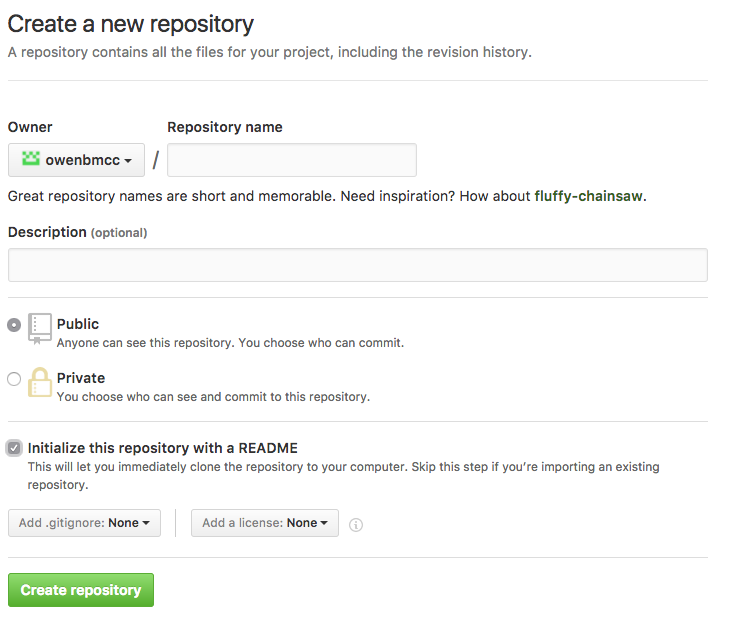
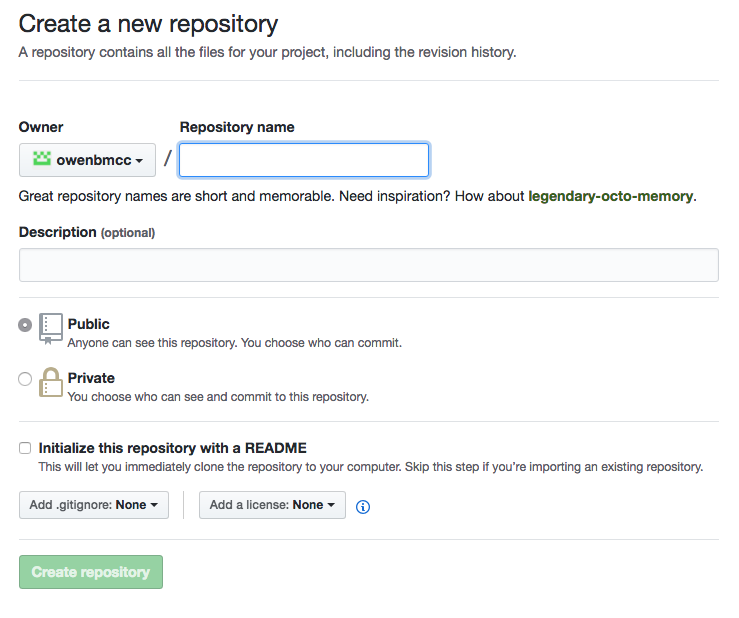
quick ref for git

diff --git a/notes/git/quick.html b/notes/git/quick.html
@@ -1,6 +1,6 @@
 ---
 layout: slides
-title: Quick Reference for GitHub setup
+title: Quick Reference for Git & GitHub setup
 week: 1
 ---
 
@@ -71,8 +71,68 @@ $ echo '.DS_Store' > .gitignore</code></pre>
 </div>
 
 <div class="slide">
-	<h2>push to GitHub</h2>
+	<h2>GitHub</h2>
 	<p>Now that you have some code you want to share or publish it's time to set up GitHub.</p>
 	<p>Make a new repo in your GitHub account.</p>
 	<p>Do <note>NOT</note> select "Initialize this repository with a README".  This will result in an error because your local repo and remote repo will have different initial commits.  When you add a README GitHub makes the initial commit for you.  If you <em>need</em> a README you can make it locally.</p>
+</div>
+
+<div class="slide">
+	<img src="github/create.png">
+</div>
+
+<div class="slide">
+	<p>Name the repository something that makes sense for you project and click the green button.</p>
+	<p>Copy the URL that appears on the next screen.</p>
+</div>
+
+<div class="slide">
+	<img src="git/remote.png">
+</div>
+
+<div class="slide">
+	<h2>Remote</h2>
+	<p>That URL is your GitHub <note>remote</note>, or the location where you can push your code to publish and share.
+	<p>We need to add the remote to our local repo so it knows where to push.</p>
+	<pre><code>$ git remote add origin copied-url</code></pre>
+	<p>"origin" is the name of this remote.  Sometimes you need more than one remote so you need to specify them.  You will probably only have the "origin" which will point to GitHub.</p>
+</div>
+
+<div class="slide">
+	<h2>push</h2>
+	<p>Now you can push your code!</p>
+	<pre><code>$ git push origin master</code></pre>
+	<p>This will add your current local repo to the GitHub repo.  "master" is the default branch.  You probably don't need another branch right now.</p>
+</div>
+
+<div class="slide">
+	<h2>Updating</h2>
+	<p>Now that you have a repo you can push code to it from other computers or have collaborators and contributors add code as well.</p>
+	<p>To make sure if your code is up to date, follow these steps.  You always want to <code>pull</code> before doing anything else.</p>
+</div>
+
+<div class="slide">
+	<pre><code>// before anything else
+$ git status
+$ git pull origin master
+
+// after you make changes
+$ git status
+// if red files
+$ git add .
+$ git status
+// if green files
+$ git commit -m "update message"
+$ git push origin master</code></pre>
+</div>
+
+<div class="slide">
+	<h2>Cloning</h2>
+	<p>If you want to work on your code on a new computer or your collaborator wants to work on the repo, you can use <code>clone</code>.</p>
+	<p>Copy the repo URL.</p>
+	<pre><code>$ cd Desktop
+$ git clone repo-url
+$ cd repo-name</code></pre>
+	<p>Remember that clone will create a new folder and you won't be in it.  You have to <code>cd</code> into the folder first.</p>
+	<p>After that follow the same steps for updating.</p>
 </div>

diff --git a/notes/git/github.html b/notes/git/github.html
@@ -20,6 +20,7 @@ week: 1
 		<li>Social network for code</li>
 	</ul>
 </div>
+
 <div class="slide">
 	<p>Sign up at <a href="http://github.com" target="blank">GitHub.com</a></p>
 	<img src="github/signup.png">
